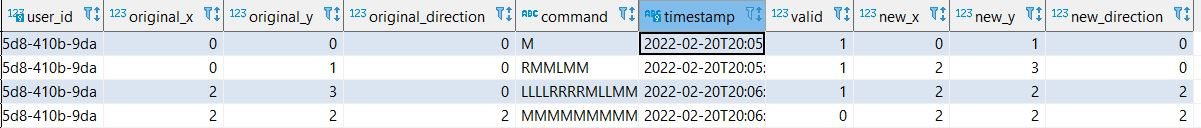
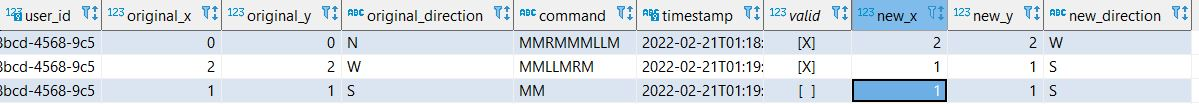
Fixed Direction TYpe

diff --git a/backend-nodejs/controllers/DriveController/index.js b/backend-nodejs/controllers/DriveController/index.js
@@ -1,16 +1,23 @@
-// const db_connection = require('../database/connection');
 const db = require("../../services/db.js");
+
+const Directions = {
+    N: 0,
+    E: 1,
+    S: 2,
+    W: 3
+  }
 
 module.exports = {
     async move(request, response) {
-        const { currentX: initialX, currentY: initialY, currentDirection: initialDirection } = request.body;
-        let { command } = request.body;
+        const { currentX: initialX, currentY: initialY } = request.body;
+        let { command, currentDirection: initialDirection } = request.body;
         const { uuid } = request.headers;
         command = command.toString().toUpperCase();
-
+        initialDirection = initialDirection.toString().toUpperCase();
+        
         let currentX = initialX;
         let currentY = initialY;
-        let currentDirection = initialDirection;
+        let currentDirection = Directions[initialDirection];
 
         let error_code = null;
 
@@ -80,17 +87,18 @@ module.exports = {
             if(error_code){break;}
         }
 
-        /* data = await db.raw(`
-            INSERT INTO commands_log
-            (user_id, original_x, original_y, original_direction, command, "timestamp", "valid", new_x, new_y, new_direction)
-            VALUES('${uuid}', ${initialX}, ${initialY}, ${initialDirection}, '${command}', null , ${error_code?false:true}, ${currentX}, ${currentY}, ${currentDirection});`); */
-
         if (!error_code) {
+            for (var key of Object.keys(Directions)) {
+                if(Directions[key] === currentDirection){
+                    currentDirection = key;
+                    break;
+                }
+            }
             await db.raw(`
                 INSERT INTO commands_log
                 (user_id, original_x, original_y, original_direction, command, "timestamp", "valid", new_x, new_y, new_direction)
                 VALUES(:uuid, :initialX, :initialY, :initialDirection, :command, :now , :valid, :currentX, :currentY, :currentDirection);`,
-                {now: new Date().toISOString(), uuid, initialX, initialY, initialDirection, command, valid: true,  currentX, currentY, currentDirection,});
+                {now: new Date().toISOString(), uuid, initialX, initialY, initialDirection, command, valid: true,  currentX, currentY, currentDirection});
 
             return response.json({ command, currentDirection, currentX, currentY });
         } else {

diff --git a/frontend/src/components/Tabuleiro.tsx b/frontend/src/components/Tabuleiro.tsx
@@ -6,7 +6,7 @@ import Table from 'react-bootstrap/Table';
 type TabuleiroProps = {
     currentX: number,
     currentY: number,
-    currentDirection: number,
+    currentDirection: string,
     fieldSizeX: number,
     fieldSizeY: number
  };
@@ -19,13 +19,13 @@ function Tabuleiro(props: TabuleiroProps): JSX.Element {
                 {[...Array(props?.fieldSizeX).keys()].map((x) => {
                     if (y === props.currentY && x === props.currentX) {
                         switch (props?.currentDirection) {
-                            case 0:
+                            case 'N':
                                 return <td key={x}><AiOutlineArrowUp /></td>
-                            case 1:
+                            case 'E':
                                 return <td key={x}><AiOutlineArrowRight /></td>
-                            case 2:
+                            case 'S':
                                 return <td key={x}><AiOutlineArrowDown /></td>
-                            case 3:
+                            case 'W':
                                 return <td key={x}><AiOutlineArrowLeft /></td>
                             default:
                                 return <td key={x}>X</td>

diff --git a/frontend/src/App.tsx b/frontend/src/App.tsx
@@ -22,7 +22,7 @@ function App(): JSX.Element {
   // Estado inicial do tabuleiro
   const [currentX, setCurrentX] = useState(0);
   const [currentY, setCurrentY] = useState(0);
-  const [currentDirection, setCurrentDirection] = useState(0);
+  const [currentDirection, setCurrentDirection] = useState('N');
 
   // Generate random UUID
   const [uuid, setUuid] = useState(generateUniqueID());
@@ -51,7 +51,7 @@ function App(): JSX.Element {
     }
   }
   function handleReset() {
-    setCurrentDirection(0);
+    setCurrentDirection('N');
     setCurrentX(0);
     setCurrentY(0);
   }

diff --git a/backend-nodejs/routes.js b/backend-nodejs/routes.js
@@ -9,7 +9,7 @@ routes.post('/api/v1/drive', celebrate({
         command: Joi.string().required().min(0),
         currentX: Joi.number().required().min(0).max(5),
         currentY: Joi.number().required().min(0).max(5),
-        currentDirection: Joi.number().required().min(0).max(3),
+        currentDirection: Joi.string().required().valid('N', 'E', 'S', 'W', 'n', 'e', 's', 'w')
     })
 }), DriveController.move);
 
